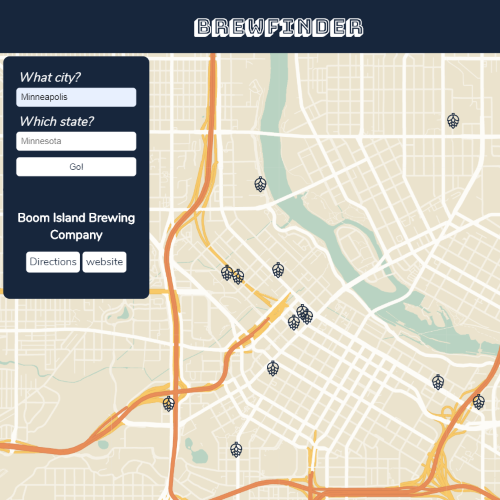
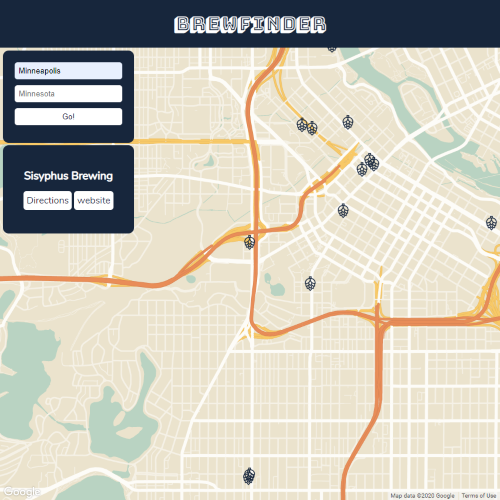
minor styling changes

diff --git a/index.html b/index.html
@@ -14,9 +14,10 @@
         <div id="map"></div>
         <h1 class="title-home">BrewFinder</h1>
         <form id="js-form" class="form-home">
-            <label for="js-city">What city?</label>
+            <p class="hide">Let's find some Taprooms!</p>
+            <label for="js-city" class="hide">What city?</label>
             <input type="text" name="city" id="js-city" placeholder="Minneapolis">
-            <label for="js-state">Which state?</label>
+            <label for="js-state" class="hide">Which state?</label>
             <input type="text" name="state" id="js-state" minlength="3" placeholder="Minnesota">
             <input type="submit" value="Go!">
         </form>

diff --git a/style.css b/style.css
@@ -101,7 +101,7 @@ h1 {
   color: white;
   text-align: center;
   width: 223px;
-  margin-top: 280px;
+  margin-top: 247px;
   margin-left: 5px;
   padding: 20px 20px 45px;
   border-radius: 10px;
@@ -119,8 +119,6 @@ h1 {
   display: inline-grid;
   z-index: 1;
   color: white;
-  font-size: larger;
-  font-style: italic;
   background-color: #17263C;
   padding: 20px;
   border-radius: 10px;
@@ -137,10 +135,16 @@ h1 {
 
 #js-form label {
   padding: 0 3px 2px;
+  font-style: italic;
 }
 
 #js-form input[type="submit"] {
   border: none;
+}
+
+#js-form p {
+  text-align: center;
+  font-size: larger;
 }
 
 .error-message {

diff --git a/script.js b/script.js
@@ -39,8 +39,9 @@ function watchForm() {
     event.preventDefault();
     const city = $('#js-city').val();
     const state = $('#js-state').val();
-    $('.title-home').addClass('title-after')
-    $('.form-home').addClass('form-after')
+    $('.title-home').addClass('title-after');
+    $('.form-home').addClass('form-after');
+    $('.hide').addClass('hidden');
     getResource(city, state);
   });
 }

diff --git a/readme.md b/readme.md
@@ -8,17 +8,21 @@ A simple app to search for breweries in any city.
 
 A relatively simple app that utilizes the google map API to place data from an open-source brewery database. The user searches for a city and the app fetches data from the brewery database. That data is then used to place markers on the map. The user can then click on a marker to get the relevant information.
 
+<img src="/bfhome.png">
+
 <img src="/bfscreen.png">
 
 ## Inspiration
 
-I really enjoy exploring new breweries and taprooms. One of my favorite things is the environment at the taproom. I feel it's just as important for a taproom to display their personality as it is for the beer to be good.
+I really enjoy exploring new breweries and taprooms. One of my favorite things is the environment at the taproom. I feel it's just as important for a taproom to display their personality as it is for the beer to be tasty.
 
 ## Issues I ran into
 
 The biggest problem I had when building this was the inconsistent data given from the OpenBreweryDB, half of the breweries either didn't have latitude, longitude coordinates or a street address. Also, the available data is pretty limited.
 
-I realize this just sounds like excuses, but I would like to come back to this when I learn more and make it more polished. I think this should be enough to pass this checkpoint.
+I initially wanted to use Yelp or Untappd. Yelp is not CORS enabled. Untappd reviews everyone requesting an API key, and turnaround takes about two weeks.
+
+I realize this just sounds like excuses, but I would like to come back to this when I learn Node and other server side languages to make it more polished.
 
 ## Future Functionalites
 
